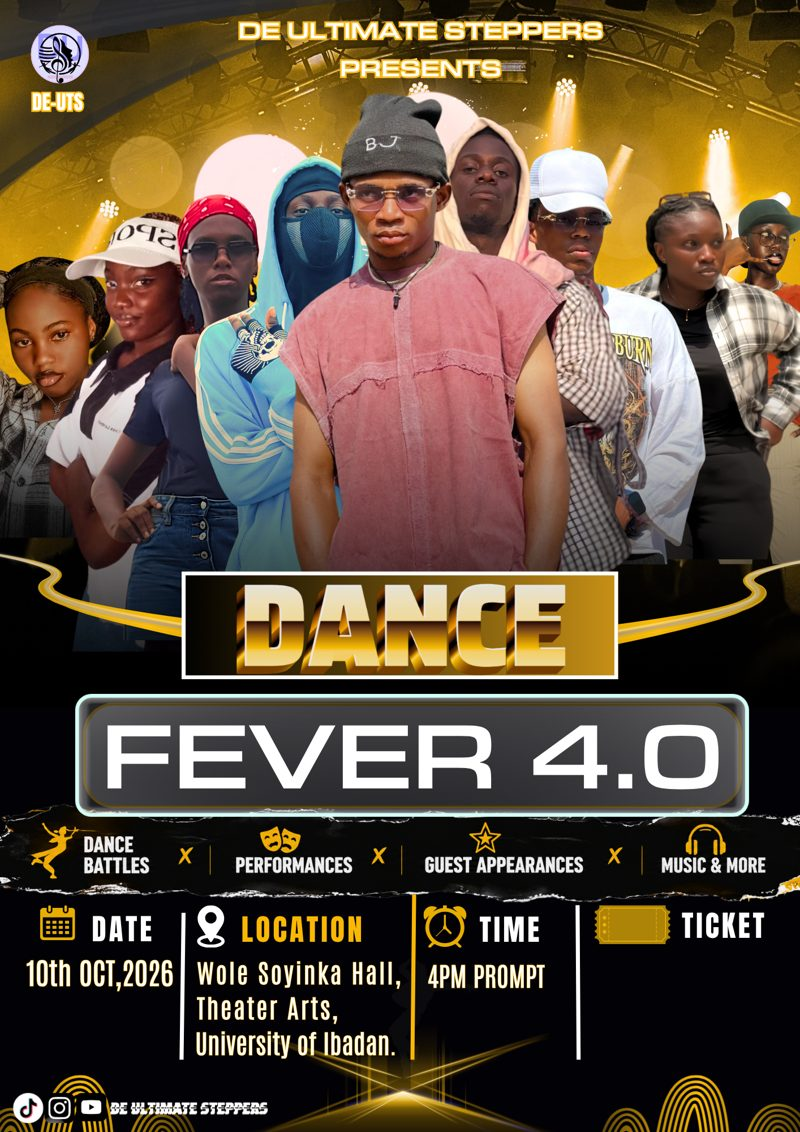
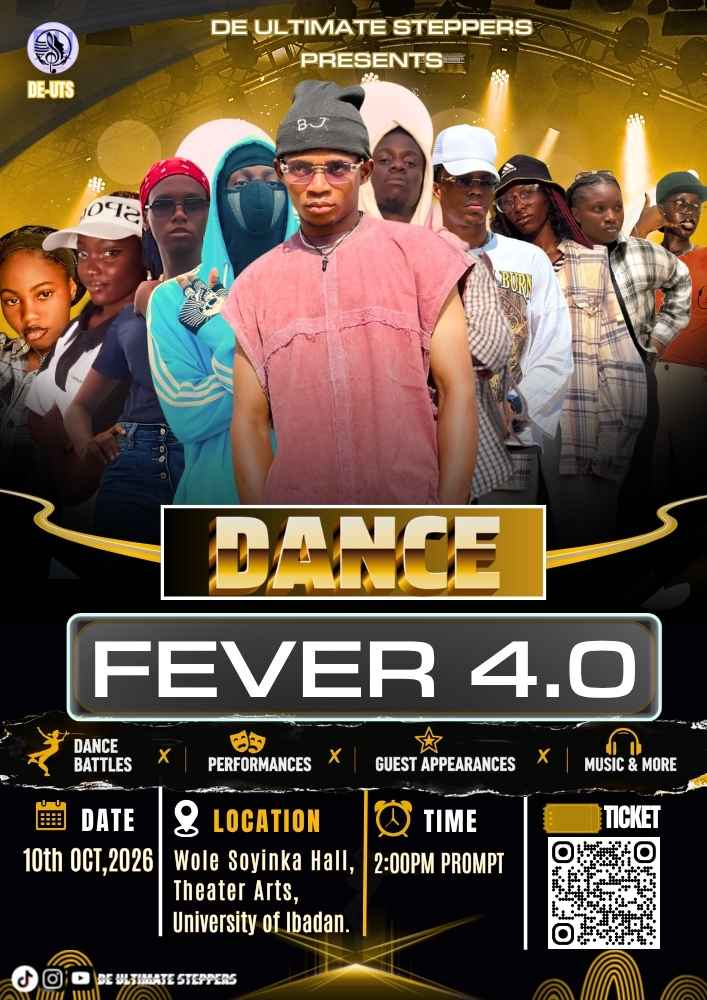
Update event time on ticket page from 4PM to 2PM

diff --git a/ticket/index.html b/ticket/index.html
@@ -153,7 +153,7 @@
   <p class="tagline">Move. Feel. Become.</p>
 
   <div class="event-details">
-    <div class="row"><span class="icon">📅</span><span>10th Oct, 2026 &middot; 4PM Prompt</span></div>
+    <div class="row"><span class="icon">📅</span><span>10th Oct, 2026 &middot; 2:00PM Prompt</span></div>
     <div class="row"><span class="icon">📍</span><span>Wole Soyinka Hall, Theater Arts, UI</span></div>
   </div>
 
